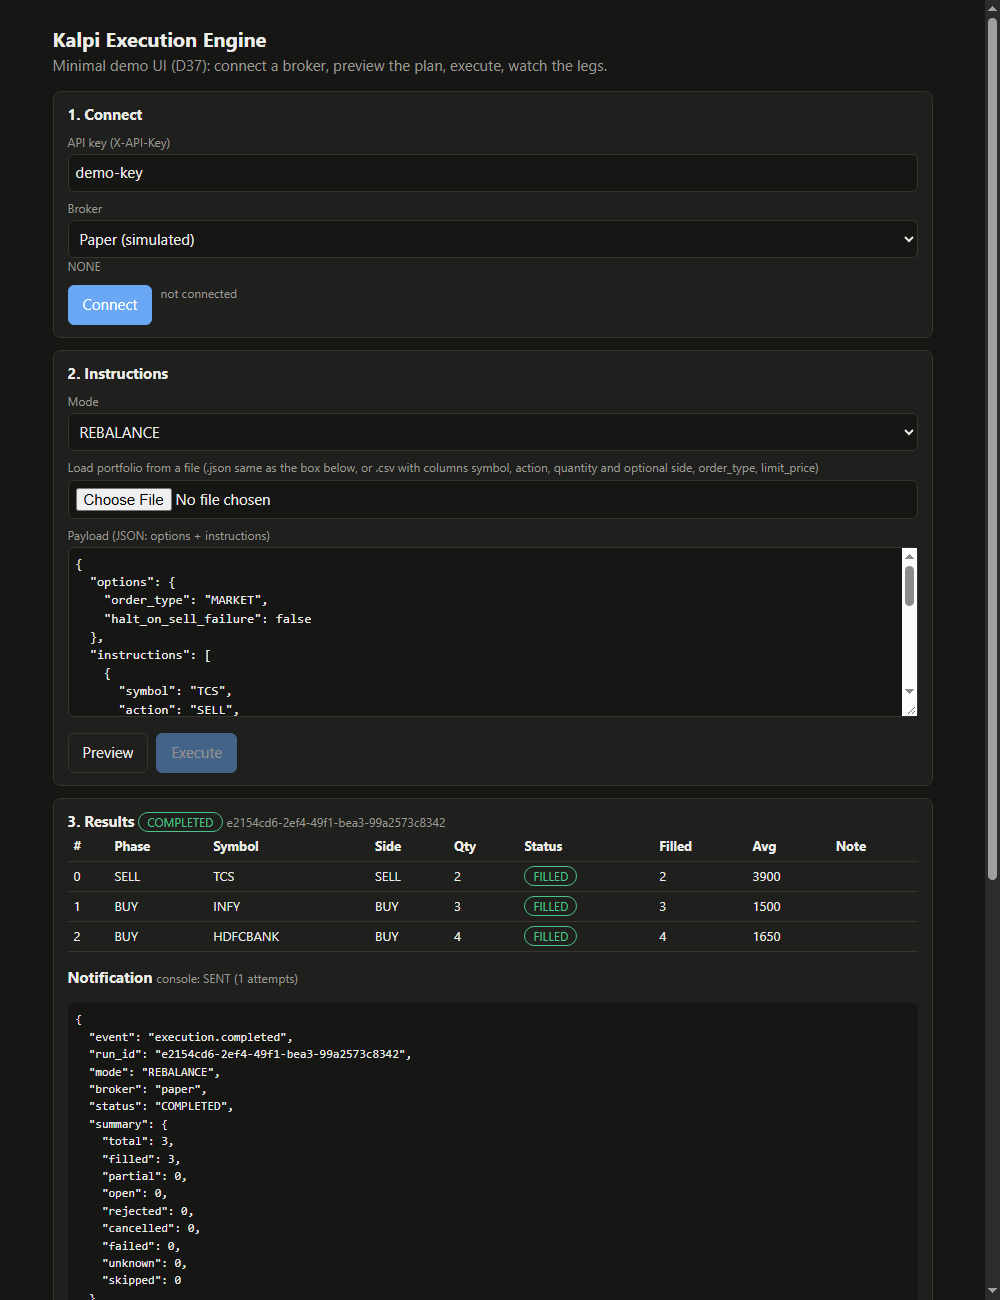
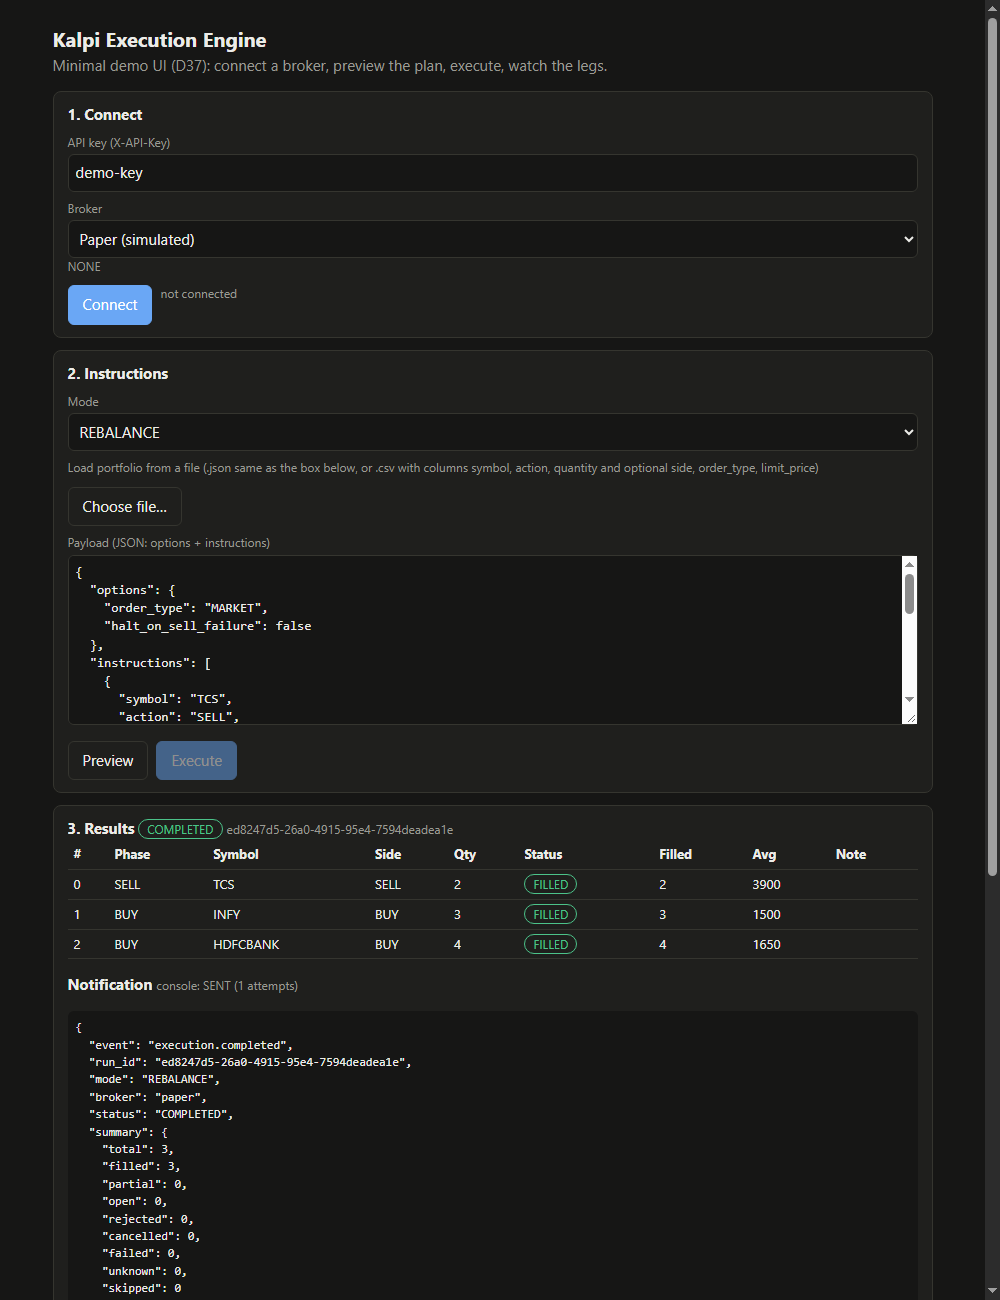
fix(D1): UI shows loaded/failed/edited state next to the file button; custom file control; box untouched on any error

diff --git a/frontend/index.html b/frontend/index.html
@@ -18,6 +18,12 @@
   label { display:block; font-size:12px; color:var(--muted); margin:8px 0 3px; }
   select, input, textarea { width:100%; box-sizing:border-box; padding:7px; font:inherit;
             color:var(--fg); background:var(--bg); border:1px solid var(--line); border-radius:6px; }
+  .visually-hidden { position:absolute; width:1px; height:1px; overflow:hidden; clip:rect(0 0 0 0); white-space:nowrap; }
+  .filerow { align-items:center; margin-top:0; }
+  .btn { display:inline-block; padding:8px 14px; border-radius:6px; cursor:pointer; margin:0;
+         border:1px solid var(--line); background:var(--card); color:var(--fg); font-size:15px; }
+  #file:focus-visible + .btn { outline:2px solid var(--info); outline-offset:2px; }
+  #fileinfo.err { font-size:13px; }
   textarea { font:13px/1.4 ui-monospace, Consolas, monospace; min-height:170px; }
   .row { display:flex; gap:8px; flex-wrap:wrap; margin-top:10px; }
   button { padding:8px 14px; font:inherit; border-radius:6px; cursor:pointer;
@@ -58,7 +64,11 @@
     <select id="mode"><option>REBALANCE</option><option>FIRST_TIME</option></select>
     <label for="file">Load portfolio from a file (.json same as the box below, or .csv with columns
       symbol, action, quantity and optional side, order_type, limit_price)</label>
-    <input id="file" type="file" accept=".json,.csv,application/json,text/csv">
+    <div class="row filerow">
+      <input id="file" class="visually-hidden" type="file" accept=".json,.csv,application/json,text/csv">
+      <label for="file" class="btn">Choose file…</label>
+      <span id="fileinfo" class="muted" aria-live="polite"></span>
+    </div>
     <label for="payload">Payload (JSON: options + instructions)</label>
     <textarea id="payload" spellcheck="false"></textarea>
     <div class="row"><button id="preview">Preview</button>
@@ -133,24 +143,26 @@ function syncPaper() {
   // Paper seeds holdings only for REBALANCE; reconnect so the account matches the mode.
   if (paperMode && paperMode !== $("mode").value) $("connect").click();
 }
+function setFileInfo(text, cls = "muted") { $("fileinfo").textContent = text; $("fileinfo").className = cls; }
 function onMode() {
   $("payload").value = JSON.stringify(SAMPLES[$("mode").value], null, 2);
+  setFileInfo("");
   syncPaper();
 }
+$("payload").addEventListener("input", () => { if ($("fileinfo").textContent.startsWith("Loaded")) setFileInfo("Edited manually"); });
 $("file").onchange = async (ev) => {
   const f = ev.target.files[0];
   if (!f) return;
   $("msg").textContent = ""; $("plan").innerHTML = ""; previewOk = false; $("execute").disabled = true;
   try {
     const { mode, ...payload } = PortfolioFile.parsePortfolioFile(f.name, await f.text());
+    if (mode && !["FIRST_TIME", "REBALANCE"].includes(mode)) throw new Error('"mode" must be FIRST_TIME or REBALANCE.');
+    // Nothing is written to the form until the whole file has parsed and validated.
     $("payload").value = JSON.stringify(payload, null, 2);
-    if (mode) {
-      if (!["FIRST_TIME", "REBALANCE"].includes(mode)) throw new Error('"mode" must be FIRST_TIME or REBALANCE.');
-      $("mode").value = mode; syncPaper();
-    }
-    $("msg").innerHTML = `<div class="muted">Loaded ${payload.instructions.length} instructions from ${esc(f.name)}. Review, then Preview.</div>`;
+    if (mode) { $("mode").value = mode; syncPaper(); }
+    setFileInfo(`Loaded: ${f.name} - ${payload.instructions.length} instructions (${$("mode").value})`);
   } catch (e) {
-    $("msg").innerHTML = `<p class="err">Could not load ${esc(f.name)}: ${esc(e.message)}</p>`;
+    setFileInfo(`Failed: ${f.name} - ${e.message}`, "err");
   } finally { ev.target.value = ""; }  // allow choosing the same file again
 };
 $("broker").onchange = onBroker; $("mode").onchange = onMode;

diff --git a/tests/unit/test_ui_upload.py b/tests/unit/test_ui_upload.py
@@ -94,6 +94,8 @@ def test_parsed_sample_previews_on_paper(client: TestClient, fname: str) -> None
 def test_ui_serves_file_input_and_parser(client: TestClient) -> None:
     page = client.get("/ui")
     assert 'id="file"' in page.text and ".json" in page.text and ".csv" in page.text
+    for needle in ('id="fileinfo"', "Loaded: ${f.name}", "Failed: ${f.name}", "Edited manually"):
+        assert needle in page.text
     js = client.get("/ui/portfolio.js")
     assert js.status_code == 200 and "text/javascript" in js.headers["content-type"]
     assert "parsePortfolioFile" in js.text

diff --git a/README.md b/README.md
@@ -28,7 +28,9 @@ the file upload, pick [`docs/samples/rebalance.json`](docs/samples/rebalance.jso
 [`docs/samples/rebalance.csv`](docs/samples/rebalance.csv) with "Load portfolio from a file", then
 Preview. JSON is the same payload as the box (`options` + `instructions`, optional `mode`); CSV has
 columns `symbol, action, quantity` and optional `side, order_type, limit_price`. A malformed file
-shows an error naming the line and leaves the box unchanged.
+shows `Failed: <file> - <error>` (naming the line) next to the button and leaves the box
+unchanged; a good file shows `Loaded: <file> - N instructions (MODE)` until you load another
+file or edit the box by hand (`Edited manually`).
 API docs: <http://localhost:8000/docs>. Without a `.env` the API and UI answer 401/503.
 `docker compose down` stops it; `down -v` also deletes the Postgres volume.
 
